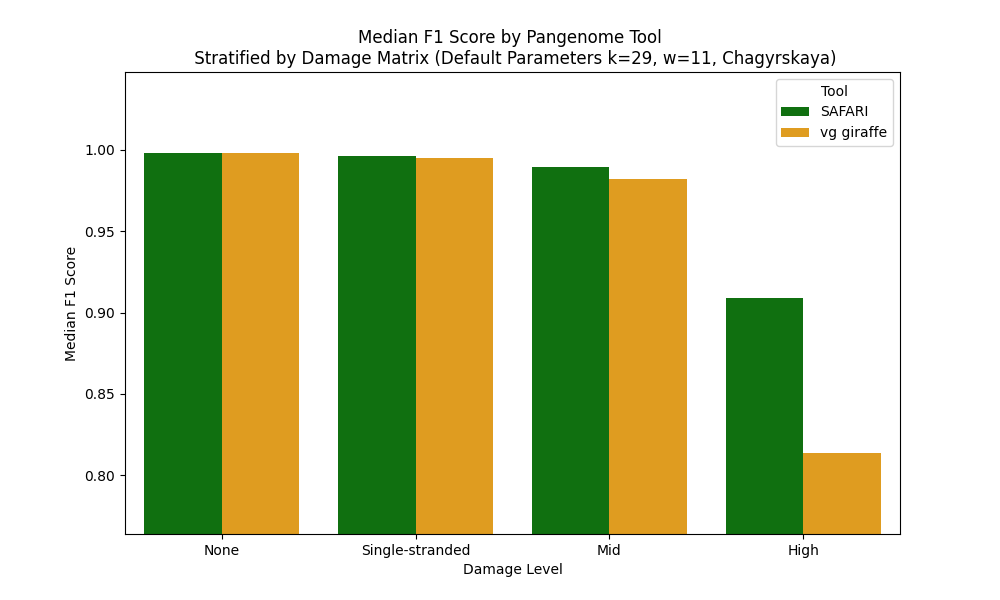
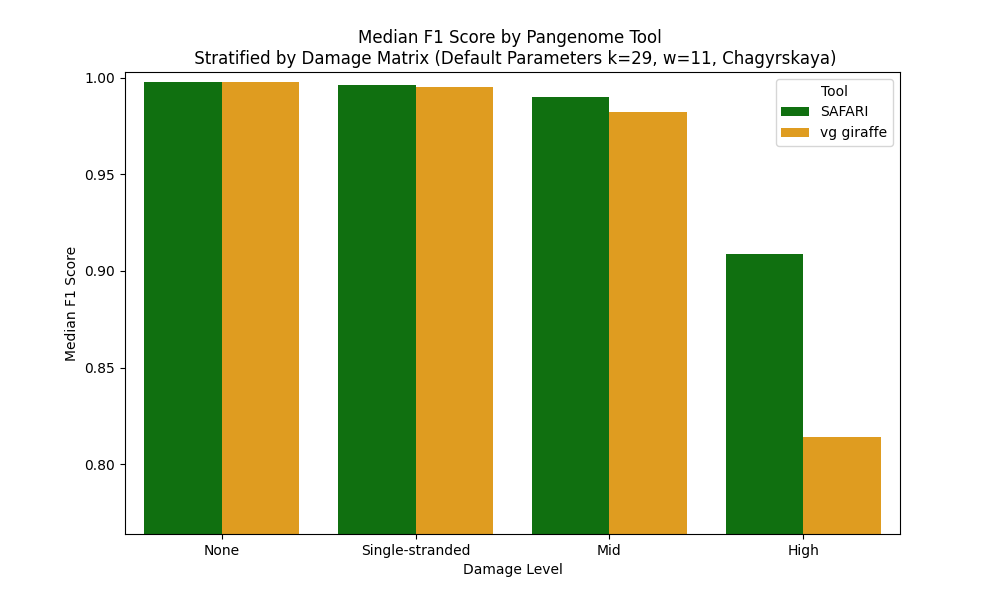
Update

diff --git a/linear_experiment/human_mito/stat_results/plot_F1_default_pangenome.py b/linear_experiment/human_mito/stat_results/plot_F1_default_pangenome.py
@@ -31,7 +31,7 @@ def main():
 
     # Set the lower limit to be slightly below the minimum value and the upper limit to be slightly above the maximum value
     ylim_lower = min_f1 - 0.05  # Adjust as needed
-    ylim_upper = max_f1 + 0.05  # Adjust as needed
+    ylim_upper = max_f1 + 0.005
 
     # Create the barplot
     plt.figure(figsize=(10, 6))
